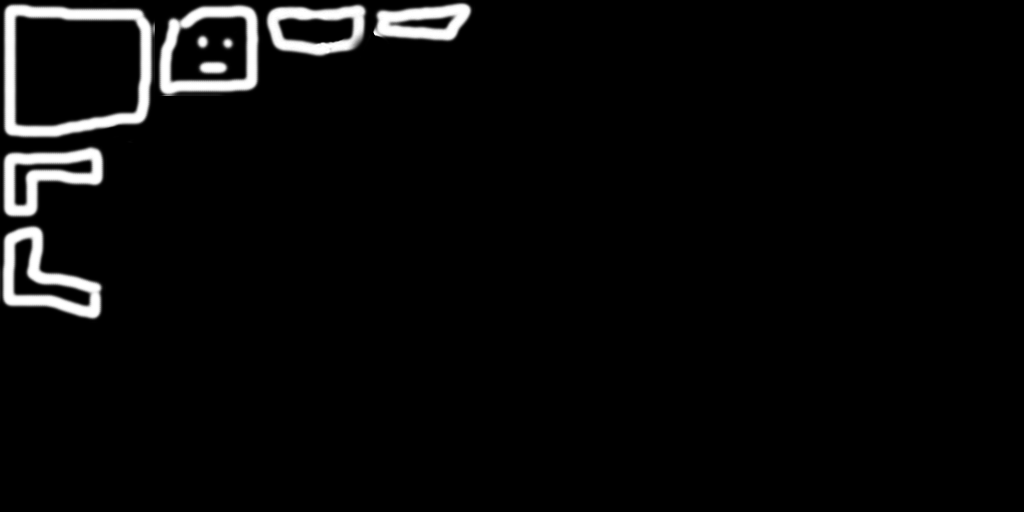
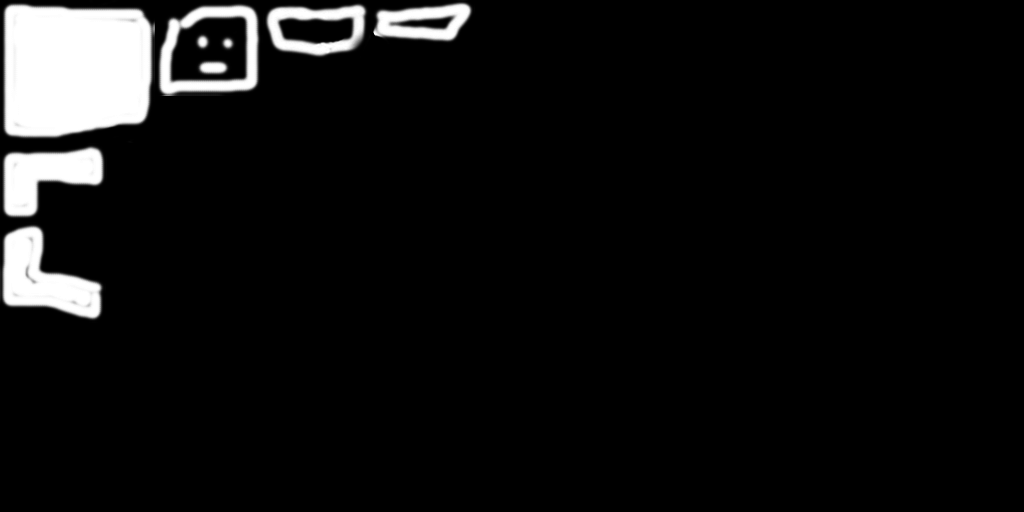
Added color to fighters

Changed region(s): [[0.0, 0.0312, 0.1562, 0.25], [0.0, 0.4688, 0.0938, 0.5938], [0.0, 0.3125, 0.0938, 0.4062]]

diff --git a/sources/GameMaster.cpp b/sources/GameMaster.cpp
@@ -74,8 +74,10 @@ void GameMaster::stateChanged(State::Enum oldState, State::Enum newState) {
         // Create 12 x 2 fighters
         for (int i=0; i<12; i++) {
             Entity f1 = createFighter();
+            RENDERING(FIGHTER(f1)->torso)->color = Color("color_p1");
             FIGHTER(f1)->player = p1;
             Entity f2 = createFighter();
+            RENDERING(FIGHTER(f2)->torso)->color = Color("color_p2");
             FIGHTER(f2)->player = p2;
         }
         // Create random equipments

diff --git a/sources/PrototypeGame.cpp b/sources/PrototypeGame.cpp
@@ -86,7 +86,9 @@ void PrototypeGame::init(const uint8_t* in, int size) {
     for(std::map<State::Enum, StateManager*>::iterator it=state2manager.begin(); it!=state2manager.end(); ++it) {
         it->second->setup();
     }
-
+    
+    Color::nameColor(Color(172.0/255,39.0/255,39.0/255), "color_p1");
+    Color::nameColor(Color(53.0/255,102.0/255,45.0/255), "color_p2");
     currentState = State::Menu;
 
     // ...
